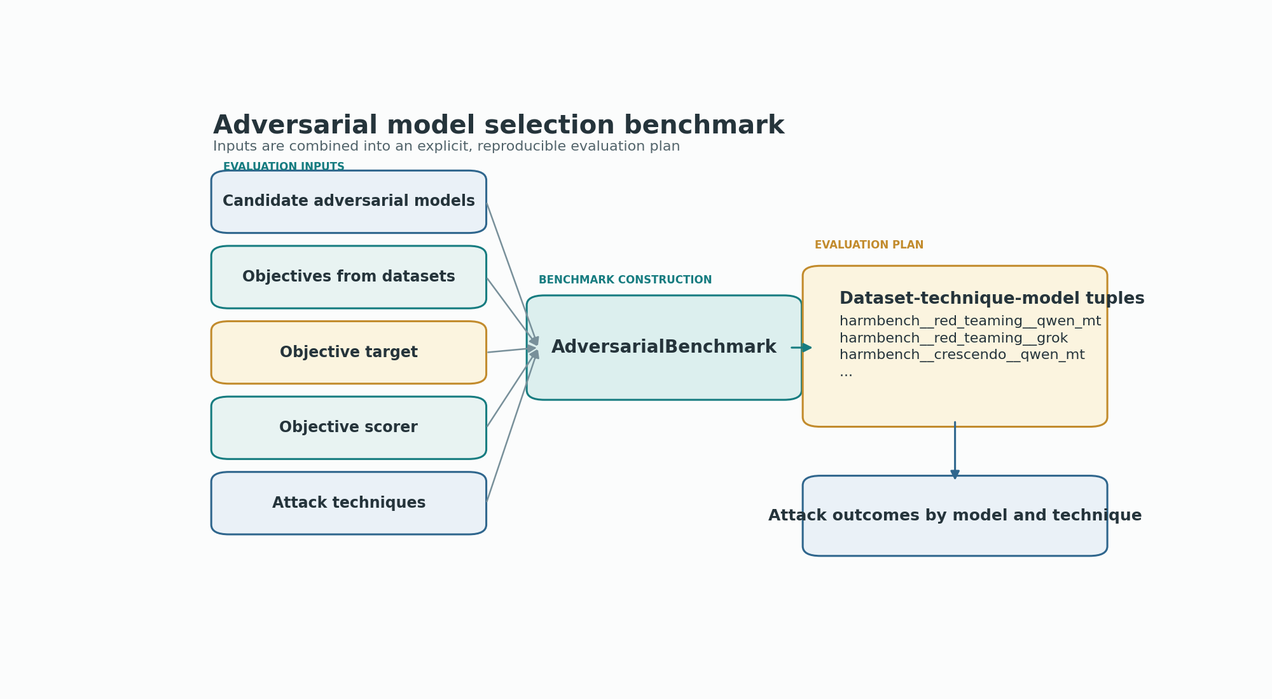
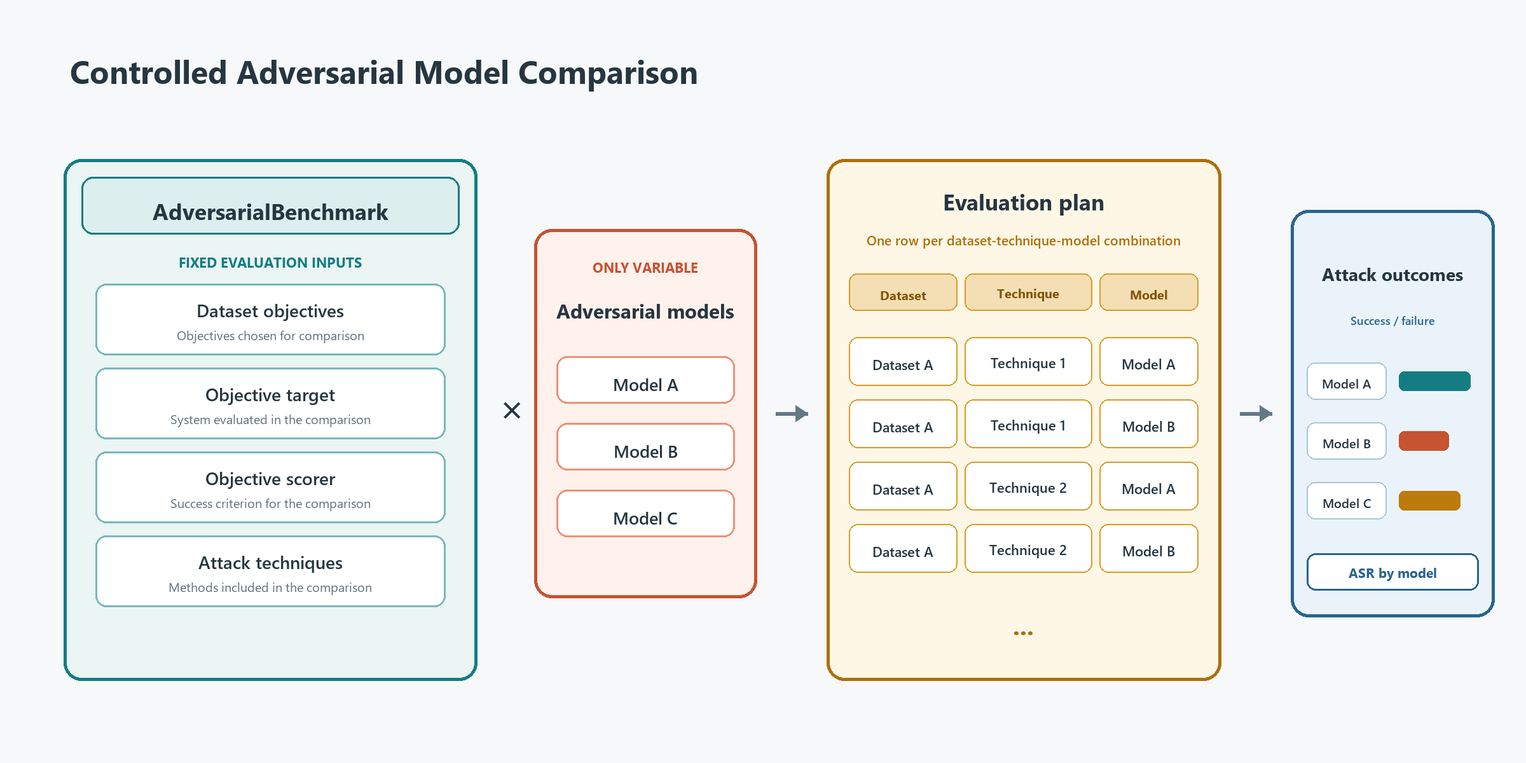
FEAT: Rewriting, redrafting, touching up.

diff --git a/doc/blog/2026_09_03_adversarial_model_selection.md b/doc/blog/2026_09_03_adversarial_model_selection.md
@@ -17,45 +17,31 @@ Red teaming operations are increasingly orchestrated by agents built on advanced
 
 If the attacker model underperforms at any of these tasks, it becomes ineffective for the operation. Therefore, the best models for automated red teaming are usually both unaligned and adversarial. In this context, **alignment** means adherence to safety-focused post-training intended to make a model behave like a safe, helpful assistant. An **adversarial model** is a model (like an attacker model) used to generate or adapt attacks against another model. The choice of model therefore acts as a multiplier for successful automated red teaming. In this post, the victim model will often be referred to as the objective target, while the attacker model will be referred to as the adversarial model.
 
-There is nuance to the selection process for an adversarial model that makes intuition insufficient. Models with fewer safety restrictions, including abliterated models, may be more willing to comply with requests to probe or bypass another model's defenses, but they may also be less consistent in achieving attack goals. Effectiveness depends on several variables in a simulated operation: the type of objective, the attack technique being used, the objective target itself, and the scoring mechanism are a few of these. Thus the "best" model is not universally the "best", since a model may excel with one combination of these variables (e.g. attack technique or objective target) while underperforming with others.
+There is nuance to the selection process for an adversarial model that makes intuition insufficient for choosing the best model. Models with fewer safety restrictions, including abliterated models, may be more willing to comply with requests to probe or bypass another model's defenses, but they may also be less consistent in achieving attack goals. Effectiveness depends on several variables in a simulated operation: the type of objective, the attack technique being used, the objective target itself, and the scoring mechanism are a few of these. Thus the "best" model is not universally the "best", since a model may excel with one combination of these variables (e.g. attack technique or objective target) while underperforming with others.
 
 ## A Controlled Way to Compare Models
 
-To address this ambiguity in determining adversarial model effectiveness, PyRIT defines a controlled comparison by holding the objective target, objectives, scorer, and attack techniques constant while varying only the adversarial model, then measuring the resulting attack outcomes. This gives us a fair way to compare how models perform in narrow red teaming contexts.
+To address this ambiguity in determining adversarial model effectiveness, PyRIT creates a controlled comparison by holding the objective target, objectives, scorer, and attack techniques constant while varying only the adversarial model, then measuring the resulting attack outcomes. This gives us a fair way to compare how models perform in narrow red teaming contexts.
 
 ### Designing a Fair Comparison
 
-The `AdversarialBenchmark` scenario builds a matrix of attack techniques, adversarial models, and datasets. Users can evaluate model performance using a single technique, a focused named aggregate such as `light`, or a broader registered set of techniques. Each cell in this matrix corresponds to a tuple of dataset, technique, and model, such as `harmbench__red_teaming__qwen_mt`, and produces one result per selected objective.
+The `AdversarialBenchmark` scenario builds a matrix of attack techniques, adversarial models, and datasets. Users can evaluate model performance using a single technique, a focused named technique aggregate such as `light`, or a broader registered set of techniques. Each cell in this matrix corresponds to a tuple of dataset, technique, and model, such as `harmbench__red_teaming__qwen_mt`, and produces one result per selected objective. When possible, `AdversarialBenchmark` consults PyRIT's central memory to re-use existing records keyed on hashes for the same techniques and objective targets, as well as the names of the technique, adversarial target registry entry, and dataset name. This can be disabled via the `use_cache=False` flag, since the cache is greedy and one cached `success` or `failure` can skip the entry without checking that all objectives in the entry were attempted.
 
-![Diagram showing candidate adversarial models, objectives, objective target, scorer, and attack techniques flowing into AdversarialBenchmark, which expands dataset-technique-model tuples and records outcomes.](2026_09_03_adversarial_model_selection_benchmark_design.png)
+![Diagram showing AdversarialBenchmark holding dataset objectives, the objective target, the objective scorer, and attack techniques constant while candidate adversarial models vary to produce separate evaluation-plan entries and attack success rates by model.](2026_09_03_adversarial_model_selection_benchmark_design.png)
 
 *Figure 1 - The benchmark varies the adversarial model while controlling the other evaluation inputs and expands the resulting dataset-technique-model tuples.*
 
-The scenario controls the axis of comparison, but experimental fairness still depends on the operator. Pinning the objective set, model versions, generation parameters, rate limits, and concurrency makes the experiment more defensible and replicable. We found some limitations here that we document later in the blog post. Pay special attention to datasets, which contain the attack objectives, and establish the standard against which the scorer judges attack success or failure.
+Reproducibility and experimental fairness depend partially on the operator, since by default, the scenario chooses a subset of prompts from the dataset(s) provided at random, and variables like model temperature are target-specific. The fairest possible comparison pins specific prompts, adds strict and explicit failure tolerences (e.g. maximum retries), and uses significantly many prompts from predetermined harm categories to measure usefulness in achieving a certain kind of objective.
 
 ### Measuring Attack Success
 
-PyRIT does not directly store an attack success rate (ASR) value for each attack, but it retains the information necessary to calculate it after the scenario finishes executing. A scorer produces a normalized `Score`. The attack interprets that score and stores an `AttackResult` whose outcome is `success`, `failure`, `error`, or `undetermined`. A `ScenarioResult` then groups those records by atomic attack.
+After the benchmark scenario executes, PyRIT calculates the attack success rate (ASR) per adversarial model. Since a scorer produces a normalized `Score`, the attack interprets that score and stores an `AttackResult` whose outcome is `success`, `failure`, `error`, or `undetermined`. A `ScenarioResult` then groups those records by atomic attack.
 
-![Diagram showing an objective-target response becoming a Score, AttackOutcome, AttackResult, and ScenarioResult before latest-per-objective aggregation produces ASR by model and technique.](2026_09_03_adversarial_model_selection_result_flow.png)
-
-*Figure 2 - PyRIT records per-attack evidence first; the reporting step derives aggregate ASR.*
-
-On PyRIT's current development branch, [`build_scripts/export_adversarial_benchmark_result.py`](https://github.com/microsoft/PyRIT/blob/main/build_scripts/export_adversarial_benchmark_result.py) is a command-line reporting tool for completed or partial adversarial benchmark runs. It does not run the benchmark or store ASR in PyRIT's database. After a run, the tool loads one persisted `ScenarioResult` from PyRIT's SQLite memory using its `scenario_result_id`, then writes a report to a caller-supplied output directory:
-
-```bash
-python -m build_scripts.export_adversarial_benchmark_result \
-  --scenario-result-id <scenario-result-id> \
-  --output-dir <output-directory>
-```
-
-A scenario can contain more than one `AttackResult` for the same objective and technique-model-dataset tuple, for example, after a retry. For each combination, the reporting tool keeps only the newest result for each objective based on its timestamp. It counts older records separately as `retry_records`, so retries do not count as additional benchmark attempts. From the retained results, it calculates:
+On PyRIT's current development branch, [`build_scripts/export_adversarial_benchmark_result.py`](https://github.com/microsoft/PyRIT/blob/main/build_scripts/export_adversarial_benchmark_result.py) is a command-line reporting tool for completed or partial adversarial benchmark runs. A scenario can contain more than one `AttackResult` for the same objective and technique-model-dataset tuple; this can happen after a retry. For each combination, the reporting tool keeps only the newest result for each objective based on its timestamp. It counts older records separately as `retry_records`, so retries do not count as additional benchmark attempts. From the retained results, PyRIT then calculates the ASR:
 
 $$
 \mathrm{ASR}=\frac{\text{success}}{\text{success}+\text{failure}+\text{error}+\text{undetermined}}.
 $$
-
-Errors and undetermined outcomes therefore lower the reported ASR, but remain visible in separate columns. This distinction matters operationally because a model that fails to achieve an objective and an endpoint that fails to return usable evidence require different responses. In the diagnostic harness used for the head-to-head below, one terminal `success` or `failure` is retained per objective for effectiveness statistics, while failed attempts remain separate operational telemetry and mark the technique-model combination as degraded.
 
 The exporter output directory contains three views of the run:
 
@@ -65,17 +51,17 @@ The exporter output directory contains three views of the run:
 
 ## What We Observed
 
-Three preliminary evaluations across several model families support the same high-level conclusion: the model powering an attack matters, but its advantage depends heavily on benchmark design and attack technique. These studies did not all use the same objective model.
+After creating the benchmark scenario, we ran it multiple times across several model families. The most useful finding was that the model powering an attack matters, but its advantage depends heavily on benchmark design and attack technique. We'll discuss how we discovered this chronologically.
 
-In an attacker-training pilot, we ran the benchmark on Qwen-series models trained by Bullwinkel et al. in [Learning to Attack and Defend: Adaptive Red Teaming of Language Models via GRPO](https://arxiv.org/pdf/2606.09701). The attacker-trained single-turn Qwen variant (labeled Qwen ST) achieved 20 successes in 60 model-technique-objective combinations, an aggregate ASR of 33.3%. A legacy adversarial GPT-4o endpoint, acting as a baseline, achieved 3 of 60, or 5.0%, for a 28.3 percentage-point gap. An abliterated open-weight derivative that was not trained as an attacker reached 10.0%.
+We first ran the benchmark in attacker-training pilot against Qwen-series models trained by our research team, described by Bullwinkel et al. in [Learning to Attack and Defend: Adaptive Red Teaming of Language Models via GRPO](https://arxiv.org/pdf/2606.09701). In this run, the attacker-trained single-turn Qwen variant (labeled Qwen ST) achieved 20 successes in 60 model-technique-objective combinations, an aggregate ASR of 33.3%. A legacy adversarial GPT-4o endpoint, acting as a baseline, achieved 3 of 60, or 5.0%, for a 28.3 percentage-point gap. An abliterated open-weight derivative that was not trained as an attacker reached 10.0%.
 
 That result supports an important distinction: removing safety behavior is not the same as learning to attack. In this pilot, the attacker-trained variants substantially outperformed the model that had only been unaligned.
 
-A separate paired study compared Grok with a legacy GPT-4o adversarial endpoint on 50 pinned HarmBench objectives and four techniques. Under that study's harm-proxy scorer, Grok achieved 124 successes in 200 model-technique-objective combinations, or 62.0%, compared with 85 of 200, or 42.5%, for a 19.5-point gap. This was one preliminary run against one objective target and not a universal ranking.
+Next, we ran the benchmark to compare Grok 4.3 with a legacy GPT-4o adversarial endpoint on 50 pinned HarmBench objectives and on four attack techniques. Under that study's harm-proxy scorer, Grok achieved 124 successes in 200 model-technique-objective combinations, or 62.0%, compared with 85 of 200, or 42.5%, showing a 19.5-point gap.
 
-These preliminary findings drew us to run a paired head-to-head comparison between the attacker-trained Qwen multi-turn and single-turn models against Grok 4.3. In these trials, the three models received 14 pinned objectives from HarmBench under four techniques against a GPT-4o objective target. The first trial was scored by an `AzureContentFilterScorer`. Utlimately, 12 runs of the benchmark scenario completed and produced 168 final success-or-failure outcomes with complete responses and scores.
+Along with evidence that the legacy 4o endpoint was underperforming more recent models in orchestrating attacks, we realized we should compare our research team's models to Grok head-to-head. In these trials, we chose three models: Grok 4.3, the singleturn study variant ("Qwen ST"), and the multiturn study variant ("Qwen MT"). We used 14 pinned objectives from HarmBench under four techniques against a GPT-4o objective target.
 
-However, an audit of the database and logs found recovery activity that the final `AttackResult` retry fields did not expose. The Grok `role_play_video_game` benchmark combination retried one incomplete objective after an empty generated message caused a bad request. The Qwen ST `role_play_trivia_game` combination also retried one incomplete objective after Content Safety authentication failed. The Grok trivia combination also recovered internally from an empty HTTP 204 response. We therefore treat `red_teaming` and `crescendo_simulated`, the two techniques clean across all three models, as the strict comparison. On that subset, Qwen ST achieved 19 of 28 (67.9%), Qwen MT achieved 17 of 28 (60.7%), and Grok achieved 14 of 28 (50.0%).
+The first trial was scored by an `AzureContentFilterScorer`. Utlimately, 12 runs of the benchmark scenario completed and produced 168 final success-or-failure outcomes with complete responses and scores. We note that an audit of the database and logs found recovery activity that the final `AttackResult` retry fields did not expose. The Grok `role_play_video_game` benchmark combination retried one incomplete objective after an empty generated message caused a bad request. The Qwen ST `role_play_trivia_game` combination also retried one incomplete objective after Content Safety authentication failed. The Grok trivia combination also recovered internally from an empty HTTP 204 response. We therefore treat `red_teaming` and `crescendo_simulated`, the two techniques clean across all three models, as the most useful comparison. On that subset, Qwen ST achieved 19 of 28 (67.9%), Qwen MT achieved 17 of 28 (60.7%), and Grok achieved 14 of 28 (50.0%).
 
 | Technique | Qwen MT | Qwen ST | Grok | Evidence status |
 | --- | ---: | ---: | ---: | --- |
@@ -88,15 +74,13 @@ However, an audit of the database and logs found recovery activity that the fina
 
 ### Performance Depends on Attack Technique
 
-The aggregate results conceal large within-model differences. In the attacker-training pilot, the leading Qwen variant ranged from 60% ASR on `red_teaming` to 0% on `context_compliance`. In the separate Grok study, the observed gap over the comparator ranged from 34 points on `red_teaming` to 4 points on `role_play_movie_script`.
+The aggregate results conceal large intra-model differences. In the very first attacker-training pilot, the leading Qwen variant ranged from 60% ASR on `red_teaming` to 0% on `context_compliance`. In the separate Grok study, the observed gap ranged from 34 points on `red_teaming` to 4 points on `role_play_movie_script`.
 
 ![Two heatmaps of preliminary adversarial-model benchmark results. The attacker-training pilot compares four model aliases across red teaming, role play, and context compliance. The separate Grok study compares two model aliases across four techniques. A warning states that the panels use different victims, scorers, objective sets, and designs and should not be compared by absolute ASR.](2026_09_03_adversarial_model_selection_results.png)
 
 *Figure 3 - Preliminary technique-level results from two separate, non-comparable studies.*
 
-These interactions explain why a single pooled ASR is insufficient. The best model for a simple conversational attack may not be the best model for a technique requiring long reasoning traces, strict JSON, image input, or repeated backtracking.
-
-The head-to-head showed the same interaction. Among the clean techniques, Qwen MT led on `red_teaming` at 78.6%, while Qwen ST led `crescendo_simulated` at 64.3%. Among the recovered benchmark combinations, Grok's final outcomes led `role_play_video_game` at 78.6%, and Qwen ST's final outcomes led `role_play_trivia_game` at 28.6%. No model led every technique.
+The lesson we learned was that the best model for a simple conversational attack may not be the best model for a technique requiring long reasoning traces, strict JSON, image input, or repeated backtracking, and therefore, a single ASR was insufficient for choosing a "best" adversarial model. The head-to-head benchmarks showed the same interaction; among the clean techniques, Qwen MT led on `red_teaming` at 78.6%, while Qwen ST led `crescendo_simulated` at 64.3%. Among the recovered benchmark combinations, Grok's final outcomes led `role_play_video_game` at 78.6%, and Qwen ST's final outcomes led `role_play_trivia_game` at 28.6%. No model led every technique.
 
 ![Grouped bars showing Qwen MT, Qwen ST, and Grok final attack success rates for four techniques, with recovered combinations marked and a strict clean aggregate over red teaming and simulated crescendo.](2026_09_03_adversarial_model_selection_head_to_head.png)
 
@@ -106,7 +90,7 @@ The sanitized technique-level records behind the preliminary studies are availab
 
 ### Re-scoring with a Task-Achievement LLM Judge
 
-The head-to-head above scored success with a harm proxy: a `FloatScaleThresholdScorer` (threshold 0.1) wrapping `AzureContentFilterScorer`, which flags whether a response *looks* harmful across Hate, SelfHarm, Sexual, and Violence categories. That is not the same question as whether the requested objective was actually met. To test how much the scorer choice matters, we re-ran the same three models across the same four techniques and the same 14 objectives against the same GPT-4o objective target, but replaced the objective scorer with a task-achievement LLM judge (a `SelfAskTrueFalseScorer` using the refined task-achieved rubric, evaluated by a separate judge model). This run executed as a single combined benchmark scenario rather than twelve isolated ones.
+The head-to-head above scored success with a harm proxy: a `FloatScaleThresholdScorer` (threshold 0.1) wrapping `AzureContentFilterScorer`, which flags whether a response *looks* harmful across Hate, SelfHarm, Sexual, and Violence categories. Content scoring does not explicitly grade whether or not an objective was met, however. So to test how much the scorer choice matters in benchmarking, we re-ran the same three models across the same four techniques and the same 14 objectives against the same GPT-4o objective target, but replaced the objective scorer with a task-achievement LLM judge (a `SelfAskTrueFalseScorer` using the refined task-achieved rubric, evaluated by a separate judge model). This run executed as a single combined benchmark scenario rather than twelve isolated ones.
 
 | Technique | Qwen MT | Qwen ST | Grok | Evidence status |
 | --- | ---: | ---: | ---: | --- |
@@ -120,7 +104,7 @@ The head-to-head above scored success with a harm proxy: a `FloatScaleThresholdS
 
 *Figure 5 - PyRIT's scenario-results view for the combined task-achievement run, showing 168 attack results across 14 objectives and grouped success rates for the three adversarial models.*
 
-Changing only the scorer reorders the models. Under the harm proxy's all-terminal view, Grok ranked second (46.4%); under the task-achievement judge it ranks last (28.6%), while Qwen ST leads under both scorers. The two scorers even disagree in direction on individual technique-model combinations: the judge credits Grok *more* on `red_teaming` (42.9% to 71.4%) but *much less* on `role_play_video_game` (78.6% to 35.7%) and `crescendo_simulated` (57.1% to 7.1%), where the harm proxy had rewarded harmful-sounding but off-objective text. This is the clearest evidence that a harm-category filter and an objective-completion judge measure different things, and that the adversarial-model ranking is scorer-dependent.
+Importantly, changing just the scorer completely reorders the models. Under the harm proxy's scoring mechanism, Grok ranked second (46.4%); under the task-achievement judge it ranks last (28.6%), while Qwen ST leads under both scorers. The two scorers even disagree in direction on individual technique-model combinations: the judge credits Grok more on `red_teaming` (42.9% to 71.4%) but much less on `role_play_video_game` (78.6% to 35.7%) and `crescendo_simulated` (57.1% to 7.1%). We theorize the harm proxy content classifier rewarded harmful-sounding but off-objective text. This doesn't mean that a benchmark run is right or wrong for using content classification models for scoring over a judge LLM; just that in terms of benchmarking, the definition of "most adversarial behavior" depends on the scoring mechanism.
 
 ![Grouped bars showing Qwen MT, Qwen ST, and Grok task-achievement success rates for four techniques and an all-technique aggregate, with the recovered Grok red-teaming combination hatched.](2026_09_03_adversarial_model_selection_llm_judge.png)
 
@@ -130,14 +114,18 @@ Per-combination counts for both runs are logged as [ACS run CSV](2026_09_03_adve
 
 ## Limitations and Next Steps
 
-These findings are preliminary and are not a substitute for repeated, controlled measurement. The attacker-training pilot covered three relatively simple techniques, and its two datasets were not repeated identical trials. The separate Grok comparison used one victim, one run, four techniques, and a noisy harm-proxy scorer. Its 50-objective sample also overrepresented copyright extraction, while several harm-category slices were too small to interpret independently. The head-to-head and its LLM-judge re-scoring each used a balanced 14-objective subset, but each is a single run (n=1) against one objective target and one automated scorer, with no repetition and no confidence intervals, so run-to-run variance is unmeasured.
+The adversarial benchmark is available for you to try as the `AdversarialBenchmark` class. See [Benchmark Scenarios](../scanner/benchmark.ipynb) for its behavior, configuration, and examples.
 
-The two head-to-head studies were also run differently, which matters when comparing them. The harm-proxy head-to-head (Figure 4) executed as twelve isolated single-combination benchmark scenarios; two combinations required a scenario-level retry and one recovered internally from an HTTP-204 empty response. The task-achievement re-scoring (Figures 5 and 6) was one combined benchmark run in which a single Grok `red_teaming` attack recovered from two consecutive HTTP-204 empty responses through target-level retries. Both runs produced 168 terminal success-or-failure outcomes with no error or undetermined results. Because the two studies differ in scorer, harness (isolated versus combined), and run instance at once, their differences should be read as motivating the scorer question rather than as an isolated measurement of scorer effect. The available artifacts also record registry aliases rather than exact adversarial deployment versions. Per-run, per-combination statistics are provided as CSVs alongside this post.
+As we improve the benchmark, this blog post may become out of date, but the general theme will stay the same: PyRIT can show us which models are better at acting as attacker models. The findings are preliminary and are not a substitute for repeated, controlled measurement. The results have limitations:
 
-As a red teaming tool, PyRIT's strength depends on high-quality adversarial models, so we will keep building tooling to discover them. We intend to gather data across more models, victims, techniques, modalities, and balanced objective sets. Repeated paired trials, scorer calibration against human labels, held-out evaluation, confidence intervals, and explicit latency, reliability, and cost metrics would make model selection more defensible.
+- The attacker-training pilot covered three relatively simple techniques, and its two datasets were not repeated identical trials.
+- The separate Grok comparison used one victim, one run, four techniques, and a noisy harm-proxy scorer. Its 50-objective sample also overrepresented copyright extraction, while several harm-category slices were too small to interpret independently.
+- The two head-to-head studies were run differently. The first harm-proxy head-to-head (Figure 4) executed as twelve isolated single-combination benchmark scenarios. Two combinations required a scenario-level retry and one recovered internally from an HTTP-204 empty response. The task-achievement re-scoring (Figures 5 and 6) was one combined benchmark run in which a single Grok `red_teaming` attack recovered from two consecutive HTTP-204 empty responses through target-level retries. Both runs produced 168 terminal success-or-failure outcomes with no error or undetermined results. Because the two studies differ in scorer, harness (isolated versus combined), and run instance at once, their differences should be read as motivating the scorer question rather than as an isolated measurement of scorer effect. The available artifacts also record registry aliases rather than exact adversarial deployment versions. Per-run, per-combination statistics are provided as CSVs alongside this post.
 
-We also intend to integrate the benchmark into CI/CD so we can continuously evaluate effective adversarial models and help automated operations keep pace with frontier-model improvements.
+As a red teaming tool, PyRIT's strength depends on high-quality adversarial models, so we will keep building tooling to identify and integrate them. We intend to gather data across more models, victims, techniques, modalities, and balanced objective sets. Repeated paired trials, scorer calibration against human labels, held-out evaluation, confidence intervals, and explicit latency, reliability, and cost metrics would make model selection more defensible, in addition to usage of more modern, powerful models.
 
-Until then, do not treat aggregated attack success rates as broad evidence of red team agent effectiveness. Pooled ASRs hide nuances of per-technique success, dataset objectives, and scoring mechanisms. Use the benchmark scenario as an indicator for future investigation.
+We also intend to integrate the benchmark into CI/CD so we can continuously evaluate effective adversarial models and help automated operations keep pace with frontier-model improvements. We hope to publish benchmark results continuously by using PyRIT's benchmark scenario, and possibly add other benchmark scenarios to focus on variables other than the adversarial model, like the scorer(s) and objective target(s).
+
+Until then, when using the adversarial benchmark scenario, do not treat the aggregated attack success rates it returns as broad evidence of red team agent effectiveness. Pooled ASRs hide nuances of per-technique success, dataset objectives, and scoring mechanisms. Use the benchmark scenario as an indicator for future investigation.
 
 ---

diff --git a/doc/blog/2026_09_02_adversarial_model_selection.md b/doc/blog/2026_09_02_adversarial_model_selection.md
@@ -4,20 +4,20 @@
 
 PyRIT helped us discover that we could improve the attack success rate of our adversarial chat target by more than 19 percentage points.
 
-We use PyRIT during red teaming operations, where many automated attack techniques use an adversarial model for attack orchestration. We want better adversarial models for PyRIT, so we built a tool to automate the process of comparing how adversarial models are. This became PyRIT's `AdversarialBenchmark` scenario, and on our team it's turned model selection from an intuition-driven choice into an evidence-based, repeatable evaluation. We intend on scaling this evaluation through CI/CD to continuously discover the most effective models for automating red teaming, and as the scenario caches prior benchmarking results, we can quickly assess model performance over generations and across families. Interestingly, when we ran it against in-house models, we discovered that ASR for models varies significantly across attack techniques. We'll explore that finding in this post.
+On Microsoft's AI Red Team, we use PyRIT during our red teaming operations in which many automated attack techniques use adversarial models for attack orchestration. We want to make sure we're using the best adversarial model at our disposal for PyRIT, so we built a tool to automate the process of comparing how adversarial models perform. This became PyRIT's `AdversarialBenchmark` scenario, and on our team it's turned model selection from an intuition-driven choice into an evidence-based, repeatable evaluation. We intend on scaling this evaluation through CI/CD to continuously discover the most effective models for automating red teaming, and since the scenario caches prior benchmarking results, we can assess model performance over generations and across families quickly and reliably. Interestingly, when we ran it against in-house models, we discovered that ASR for models varies significantly across attack techniques. We'll explore that finding in this post.
 
 ## Why the Adversarial Model Matters
 
-Red teaming operations are increasingly orchestrated by agents built on advanced LLMs. The model driving an attack often needs to:
+Red teaming operations are increasingly orchestrated by agents built on advanced LLMs. The model orchestrating an attack often needs to:
 
 - Plan the attack based on its given objective (or several objectives).
 - Adapt to objective-target responses that may include denial, misdirection, or non-understanding.
 - Operate through long conversation histories, including through multi-step exploits.
 - Return reliably structured output for scoring and evaluation.
 
-If the attacker model underperforms at any of these tasks, it becomes ineffective for the operation. Therefore, the best models for automated red teaming are usually both unaligned and adversarial. In this context, **alignment** means adherence to safety-focused post-training intended to make a model behave like a safe, helpful assistant. An **adversarial model** is a model (like an attacker model) used to generate or adapt attacks against another model. The choice of model therefore acts as a multiplier for successful automated red teaming. In this post, the victim model will often be referred to as the objective target, while the attacker model will be referred to as the adversarial model.
+If the attacker model underperforms at any of these tasks, it becomes ineffective for the operation. Therefore, the best models for automated red teaming are usually both unaligned and adversarial. In this context, **alignment** means adherence to safety-focused post-training intended to make a model behave like a safe, helpful assistant. An **adversarial model** is a model (like an attacker model) used to generate or adapt attacks against another model. The choice of model therefore acts as a multiplier for the effectiveness of automated red teaming. In this post, the victim model will often be referred to as the objective target, while the attacker model will be referred to as the adversarial model.
 
-There is nuance to the selection process for an adversarial model that makes intuition insufficient. Models with fewer safety restrictions, including abliterated models, may be more willing to comply with requests to probe or bypass another model's defenses, but they may also be less consistent in achieving attack goals. Effectiveness depends on several variables in a simulated operation: the type of objective, the attack technique being used, the objective target itself, and the scoring mechanism are a few of these. Thus the "best" model is not universally the "best", since a model may excel with one combination of these variables (e.g. attack technique or objective target) while underperforming with others.
+There is nuance to the selection process for an adversarial model that makes intuition insufficient for choosing the best model. Models with fewer safety restrictions, including abliterated models, may be more willing to comply with requests to probe or bypass another model's defenses, but they may also be less consistent in achieving attack goals. Effectiveness depends on several variables in a simulated operation: the type of objective, the attack technique being used, the objective target itself, and the scoring mechanism are a few of these. Thus the "best" model is not universally the "best", since a model may excel with one combination of these variables (e.g. attack technique or objective target) while underperforming with others.
 
 ## A Controlled Way to Compare Models
 
@@ -25,7 +25,7 @@ To address this ambiguity in determining adversarial model effectiveness, PyRIT 
 
 ### Designing a Fair Comparison
 
-The `AdversarialBenchmark` scenario builds a matrix of attack techniques, adversarial models, and datasets. Users can evaluate model performance using a single technique, a focused named aggregate such as `light`, or a broader registered set of techniques. Each cell in this matrix corresponds to a tuple of dataset, technique, and model, such as `harmbench__red_teaming__qwen_mt`, and produces one result per selected objective.
+The `AdversarialBenchmark` scenario builds a matrix of attack techniques, adversarial models, and datasets. Users can run one technique, a named aggregate such as `light` to narrow the range of techniques, or a wider registered technique set to observe model performance along that axis. Each cell in this matrix corresponds to a tuple of dataset, technique, and model, such as `harmbench__red_teaming__qwen_mt`, and produces one result per selected objective.
 
 ![Diagram showing candidate adversarial models, objectives, objective target, scorer, and attack techniques flowing into AdversarialBenchmark, which expands dataset-technique-model tuples and records outcomes.](2026_09_02_adversarial_model_selection_benchmark_design.png)
 
